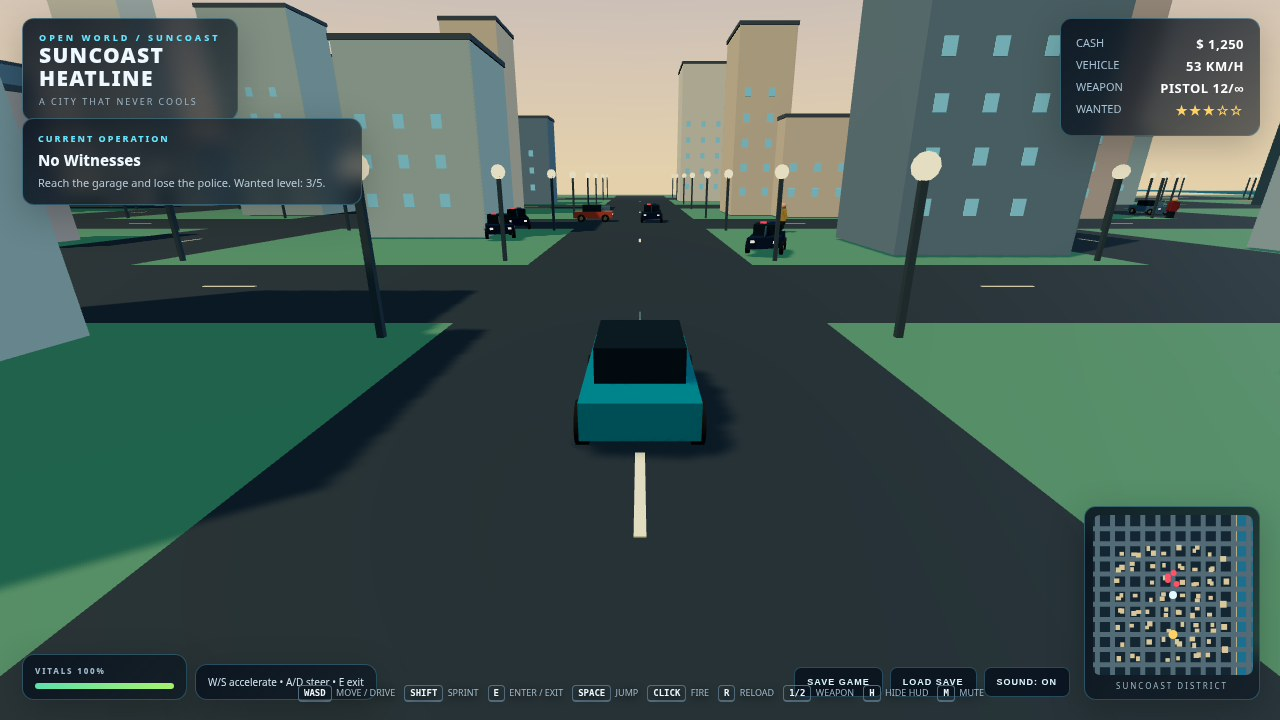
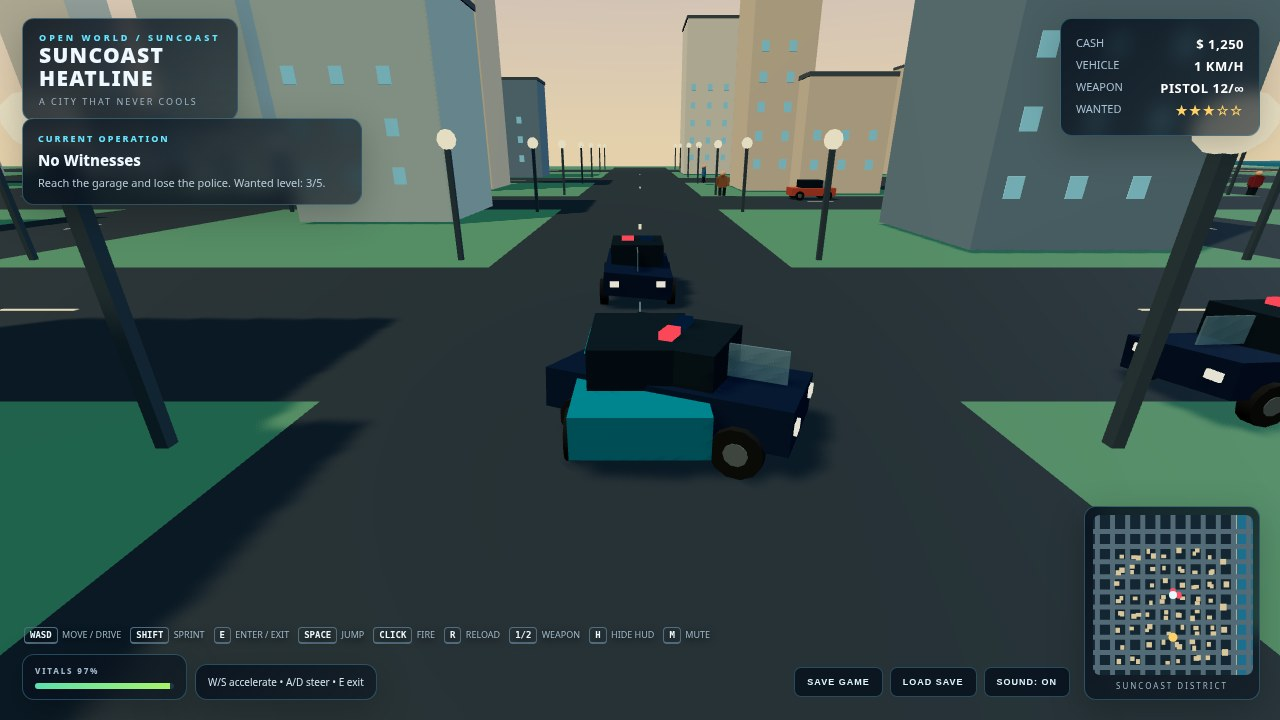
Fix round: QA defects D1-D7 (police unstick + routing, ped spawn/flee, hud=0, HUD layout, shadow map, vendor notices, sun glow, live minimap; re-shot 3-chase.jpg)

diff --git a/game/src/vehicles.js b/game/src/vehicles.js
@@ -162,26 +162,73 @@ export function updateTraffic(traffic, playerCar, dt) {
  * nearest road intersection on the way to the player's last seen position —
  * so a police car routes around blocks on the road grid instead of driving
  * through buildings. Movement itself is also building-clamped with a slide.
+ *
+ * Unstick (D1 fix): a unit that pushes into a building corner can end up
+ * with both move axes blocked, speed damped to ~0 and the same steering
+ * target every frame — a permanent freeze. So each unit tracks its real
+ * displacement: if it barely moves for 0.8 s while the player is far away,
+ * it reverses out of the corner while turning for 1.4 s, then re-engages
+ * with a new heading. The cycle repeats if it wedges again, so a freeze
+ * can no longer be permanent.
  */
 export function updatePolice(police, buildings, actorPos, wanted, dt, onRam) {
   for (const c of police) {
+    const u = c.userData;
     const dx = actorPos.x - c.position.x;
     const dz = actorPos.z - c.position.z;
     const dist = Math.hypot(dx, dz);
+    if (u.stuckTimer === undefined) {
+      u.stuckTimer = 0; u.unstick = 0; u.unstickDir = 1;
+      u.lastPX = c.position.x; u.lastPZ = c.position.z;
+    }
+    const moved = Math.hypot(c.position.x - u.lastPX, c.position.z - u.lastPZ);
+    u.lastPX = c.position.x; u.lastPZ = c.position.z;
+    if (u.unstick > 0) {
+      // Reverse out of the corner while turning, then re-engage.
+      // Margin escape: a unit teleported/staged inside the 1.6 clearance
+      // ring cannot move at all under the normal margin check (every nearby
+      // step still collides), so while unsticking it only has to stay out
+      // of the building core itself (radius 0) — the clearance ring is
+      // free to cross on the way out.
+      u.unstick -= dt;
+      u.speed = -7;
+      c.rotation.y += u.unstickDir * 2.2 * dt;
+      const escapeMargin = collidesBuilding(buildings, c.position.x, c.position.z, 1.6) ? 0 : 1.6;
+      const nx = c.position.x + Math.sin(c.rotation.y) * u.speed * dt;
+      const nz = c.position.z + Math.cos(c.rotation.y) * u.speed * dt;
+      if (!collidesBuilding(buildings, nx, c.position.z, escapeMargin)) c.position.x = nx;
+      if (!collidesBuilding(buildings, c.position.x, nz, escapeMargin)) c.position.z = nz;
+      c.position.x = clamp(c.position.x, -163, 150);
+      c.position.z = clamp(c.position.z, -163, 163);
+      if (u.unstick <= 0) { u.stuckTimer = 0; u.speed = 0; }
+      animateCar(c, dt, u.unstickDir);
+      continue;
+    }
+    if (moved < 0.05 && dist > 8) {
+      u.stuckTimer += dt;
+      if (u.stuckTimer > 0.8) {
+        u.unstick = 1.4;
+        u.unstickDir = (((c.position.x * 7 + c.position.z * 13) % 2) + 2) % 2 < 1 ? 1 : -1;
+      }
+    } else {
+      u.stuckTimer = Math.max(0, u.stuckTimer - dt * 2);
+    }
     let tx = actorPos.x;
     let tz = actorPos.z;
     const seesPlayer = hasLineOfSight(buildings, c.position.x, c.position.z, actorPos.x, actorPos.z);
     if (!seesPlayer) {
       // Route via the road grid: head for the intersection nearest the player
-      // that is also nearest to this car, one leg at a time.
+      // that is also nearest to this car, one leg at a time — axis-aligned,
+      // staying on the road the car is already nearest to first, so the car
+      // never cuts diagonally across a block corner.
       tx = nearestRoadCoord(actorPos.x);
       tz = nearestRoadCoord(actorPos.z);
       const carRoadX = nearestRoadCoord(c.position.x);
       const carRoadZ = nearestRoadCoord(c.position.z);
-      if (Math.abs(tx - carRoadX) > Math.abs(tz - carRoadZ)) {
-        tz = carRoadZ;
+      if (Math.abs(c.position.x - carRoadX) <= Math.abs(c.position.z - carRoadZ)) {
+        tx = carRoadX; // first leg: along the car's vertical road
       } else {
-        tx = carRoadX;
+        tz = carRoadZ; // first leg: along the car's horizontal road
       }
     }
     const tdx = tx - c.position.x;
@@ -193,9 +240,13 @@ export function updatePolice(police, buildings, actorPos, wanted, dt, onRam) {
     const nx = c.position.x + Math.sin(c.rotation.y) * c.userData.speed * dt;
     const nz = c.position.z + Math.cos(c.rotation.y) * c.userData.speed * dt;
     // Building avoidance: slide along the blocked axis, never pass through.
-    if (!collidesBuilding(buildings, nx, c.position.z, 1.6)) c.position.x = nx;
+    // Margin escape (same rule as the unstick branch): a unit already
+    // inside the clearance ring may cross the ring to get out, it just
+    // must not enter the building core itself.
+    const margin = collidesBuilding(buildings, c.position.x, c.position.z, 1.6) ? 0 : 1.6;
+    if (!collidesBuilding(buildings, nx, c.position.z, margin)) c.position.x = nx;
     else c.userData.speed *= 0.6;
-    if (!collidesBuilding(buildings, c.position.x, nz, 1.6)) c.position.z = nz;
+    if (!collidesBuilding(buildings, c.position.x, nz, margin)) c.position.z = nz;
     else c.userData.speed *= 0.6;
     c.position.x = clamp(c.position.x, -163, 150);
     c.position.z = clamp(c.position.z, -163, 163);
@@ -204,15 +255,27 @@ export function updatePolice(police, buildings, actorPos, wanted, dt, onRam) {
   }
 }
 
-/** Spawn one police car at a random bearing, 48 units from the actor. */
-export function spawnPoliceCar(scene, actorPos, rng) {
+/**
+ * Spawn one police car at a random bearing, 48 units from the actor.
+ * The spawn point is validated clear of buildings (margin 2.2, above the
+ * 1.6 collision radius); after 8 blocked tries it falls back to the
+ * nearest road intersection, which is always clear of buildings.
+ */
+export function spawnPoliceCar(scene, actorPos, rng, buildings = null) {
   const c = makeCar(0x172d49, true);
-  const angle = rng() * Math.PI * 2;
-  c.position.set(
-    clamp(actorPos.x + Math.cos(angle) * 48, -150, 150),
-    0,
-    clamp(actorPos.z + Math.sin(angle) * 48, -150, 150),
-  );
+  let x = 0;
+  let z = 0;
+  for (let attempt = 0; attempt < 8; attempt += 1) {
+    const angle = rng() * Math.PI * 2;
+    x = clamp(actorPos.x + Math.cos(angle) * 48, -150, 150);
+    z = clamp(actorPos.z + Math.sin(angle) * 48, -150, 150);
+    if (!buildings || !collidesBuilding(buildings, x, z, 2.2)) break;
+    if (attempt === 7) {
+      x = nearestRoadCoord(x);
+      z = nearestRoadCoord(z);
+    }
+  }
+  c.position.set(x, 0, z);
   c.userData.speed = 0;
   scene.add(c);
   return c;

diff --git a/game/src/characters.js b/game/src/characters.js
@@ -5,7 +5,7 @@
 
 import * as THREE from 'three';
 import { WORLD, mulberry32 } from './config.js';
-import { collidesBuilding } from './world.js';
+import { collidesBuilding, nearestRoadCoord } from './world.js';
 
 function mat(color, roughness = 0.82, metalness = 0) {
   return new THREE.MeshStandardMaterial({ color, roughness, metalness });
@@ -78,19 +78,36 @@ export function spawnPedestrians(scene, buildings, seed = 7) {
   for (let i = 0; i < 14; i += 1) {
     const p = createCharacter(PED_COLOURS[i % PED_COLOURS.length]);
     // Sidewalk position: near a road, offset from its centre line.
-    const roadX = (Math.floor(rng() * 9) - 4) * WORLD.grid;
-    const roadZ = (Math.floor(rng() * 9) - 4) * WORLD.grid;
-    const onVertical = rng() < 0.5;
-    const x = onVertical ? roadX + 8.5 : (rng() * 2 - 1) * 140;
-    const z = onVertical ? (rng() * 2 - 1) * 140 : roadZ + 8.5;
+    // Validated clear of buildings (margin 2.5, well above the 0.6 walk
+    // radius) so no pedestrian spawns wedged against a wall (QA defect D2);
+    // after 10 blocked tries fall back to the nearest road intersection,
+    // which is always clear of buildings.
+    let x = 0;
+    let z = 0;
+    let onVertical = true;
+    for (let attempt = 0; attempt < 10; attempt += 1) {
+      const roadX = (Math.floor(rng() * 9) - 4) * WORLD.grid;
+      const roadZ = (Math.floor(rng() * 9) - 4) * WORLD.grid;
+      onVertical = rng() < 0.5;
+      x = onVertical ? roadX + 8.5 : (rng() * 2 - 1) * 140;
+      z = onVertical ? (rng() * 2 - 1) * 140 : roadZ + 8.5;
+      if (!collidesBuilding(buildings, x, z, 2.5)) break;
+      if (attempt === 9) {
+        x = nearestRoadCoord(x);
+        z = nearestRoadCoord(z);
+      }
+    }
     p.position.set(x, 0, z);
     p.userData.isPed = true;
     p.userData.speed = 1.2 + rng() * 0.9;
     p.userData.axis = onVertical ? 'z' : 'x';
     p.userData.dir = rng() < 0.5 ? 1 : -1;
     p.userData.flee = 0; // seconds of fleeing left
-    p.userData.fleeX = 0;
-    p.userData.fleeZ = 0;
+    p.userData.fleeDX = 0; // fixed flee direction (set at gunfire time)
+    p.userData.fleeDZ = 0;
+    p.userData.pedStuck = 0; // seconds barely moving while fleeing
+    p.userData.lastPX = x;
+    p.userData.lastPZ = z;
     scene.add(p);
     peds.push(p);
   }
@@ -106,17 +123,37 @@ export function updatePedestrians(peds, buildings, dt, gunfire) {
     const u = p.userData;
     if (gunfire) {
       u.flee = 3;
-      u.fleeX = gunfire.x; u.fleeZ = gunfire.z;
+      // Fix the flee direction at gunfire time: recomputing it every frame
+      // from the current position makes a pedestrian sliding along a wall
+      // oscillate in place instead of running clear.
+      const dx = p.position.x - gunfire.x;
+      const dz = p.position.z - gunfire.z;
+      const len = Math.hypot(dx, dz) || 1;
+      u.fleeDX = dx / len;
+      u.fleeDZ = dz / len;
     }
     let mx = 0;
     let mz = 0;
     let speed = u.speed;
     if (u.flee > 0) {
       u.flee -= dt;
-      const dx = p.position.x - u.fleeX;
-      const dz = p.position.z - u.fleeZ;
-      const len = Math.hypot(dx, dz) || 1;
-      mx = dx / len; mz = dz / len;
+      // Wedged while fleeing (D2 fix): if the pedestrian barely moves,
+      // turn the flee direction 90 degrees so it runs along the wall
+      // instead of pushing into it forever.
+      const moved = Math.hypot(p.position.x - u.lastPX, p.position.z - u.lastPZ);
+      if (moved < 0.02) {
+        u.pedStuck += dt;
+        if (u.pedStuck > 0.5) {
+          const ndx = -u.fleeDZ;
+          const ndz = u.fleeDX;
+          u.fleeDX = ndx;
+          u.fleeDZ = ndz;
+          u.pedStuck = 0;
+        }
+      } else {
+        u.pedStuck = 0;
+      }
+      mx = u.fleeDX; mz = u.fleeDZ;
       speed = 5.2;
     } else if (u.axis === 'z') {
       mz = u.dir;
@@ -125,8 +162,13 @@ export function updatePedestrians(peds, buildings, dt, gunfire) {
     }
     const nx = THREE.MathUtils.clamp(p.position.x + mx * speed * dt, -WORLD.half, WORLD.half);
     const nz = THREE.MathUtils.clamp(p.position.z + mz * speed * dt, -WORLD.half, WORLD.half);
-    if (!collidesBuilding(buildings, nx, p.position.z, 0.6)) p.position.x = nx;
-    if (!collidesBuilding(buildings, p.position.x, nz, 0.6)) p.position.z = nz;
+    // Margin escape (same rule as police): a pedestrian already inside the
+    // clearance ring may cross the ring to get out, just not into the core.
+    const pedMargin = collidesBuilding(buildings, p.position.x, p.position.z, 0.6) ? 0 : 0.6;
+    if (!collidesBuilding(buildings, nx, p.position.z, pedMargin)) p.position.x = nx;
+    if (!collidesBuilding(buildings, p.position.x, nz, pedMargin)) p.position.z = nz;
+    u.lastPX = p.position.x;
+    u.lastPZ = p.position.z;
     // Turn around at the map edge or when blocked.
     if ((u.axis === 'z' && Math.abs(p.position.z) > 158) || (u.axis === 'x' && Math.abs(p.position.x) > 158)) {
       u.dir *= -1;

diff --git a/game/index.html b/game/index.html
@@ -38,7 +38,7 @@
 #actions{position:absolute;right:210px;bottom:23px;display:flex;gap:7px;pointer-events:auto}
 .uiBtn{border:1px solid var(--line);background:rgba(8,18,30,.86);color:#dff7ff;border-radius:7px;padding:9px 12px;font-size:9px;font-weight:850;letter-spacing:1px;cursor:pointer}
 .uiBtn:hover{border-color:var(--cyan);color:var(--cyan)}
-#controls{position:absolute;left:50%;bottom:18px;transform:translateX(-50%);font-size:9px;color:#9fb7c7;text-align:center;white-space:nowrap;text-shadow:0 2px 8px #000}
+#controls{position:absolute;left:22px;bottom:76px;font-size:9px;color:#9fb7c7;text-align:left;white-space:nowrap;text-shadow:0 2px 8px #000}
 kbd{display:inline-block;border:1px solid #557082;border-bottom-width:2px;border-radius:4px;padding:2px 5px;color:#eaf8ff;font:800 9px ui-monospace,monospace;margin:0 2px}
 #crosshair{position:absolute;left:50%;top:50%;width:16px;height:16px;transform:translate(-50%,-50%);opacity:.75}
 #crosshair:before,#crosshair:after{content:"";position:absolute;background:#d9f8ff;box-shadow:0 0 5px #4ddcff}
@@ -51,7 +51,7 @@ kbd{display:inline-block;border:1px solid #557082;border-bottom-width:2px;border
 #startPanel p{font-size:12px;line-height:1.6;color:#a9c1d0;max-width:440px}
 #startPanel .disclaimer{font-size:9px;color:#7893a4;margin-top:15px}
 #startBtn{margin-top:17px;padding:13px 19px;background:var(--cyan);color:#06111a;border:0;border-radius:7px;font-weight:950;letter-spacing:1.5px;cursor:pointer}
-@media(max-width:650px){#brand{left:10px;top:10px;min-width:0;padding:9px 11px}#brand .name{font-size:16px}#stats{right:10px;top:10px;min-width:145px;padding:9px 10px}#mission{left:10px;top:92px;padding:10px;width:220px}#minimapWrap{right:10px;bottom:10px;width:132px;padding:6px}#minimap{width:118px;height:118px}#actions{right:10px;bottom:145px;flex-direction:column}#bottom{left:10px;bottom:10px}#healthBox{width:125px}#vehicleHint{display:none}#controls{bottom:12px;font-size:8px;max-width:58vw;white-space:normal}}
+@media(max-width:650px){#brand{left:10px;top:10px;min-width:0;padding:9px 11px}#brand .name{font-size:16px}#stats{right:10px;top:10px;min-width:145px;padding:9px 10px}#mission{left:10px;top:100px;padding:10px;width:220px}#minimapWrap{right:10px;bottom:10px;width:102px;padding:6px}#minimap{width:88px;height:88px}#actions{right:10px;bottom:142px;flex-direction:column}.uiBtn{padding:7px 10px;font-size:8px}#bottom{left:10px;bottom:10px}#healthBox{width:125px}#vehicleHint{display:none}#controls{left:10px;bottom:56px;font-size:8px;max-width:60vw;white-space:normal}}
 </style>
 </head>
 <body>

diff --git a/game/src/world.js b/game/src/world.js
@@ -48,10 +48,24 @@ function makeSky(scene) {
     vertexColors: true, side: THREE.BackSide, fog: false,
   }));
   scene.add(sky);
-  // Low sun disc with a soft glow sprite (canvas-generated, data-free: plain mesh).
+  // Low sun disc with a soft radial glow (canvas-generated, data-free),
+  // so the edge fades out instead of cutting a hard white disc against
+  // the waterfront towers (QA defect D7).
+  const glowCanvas = document.createElement('canvas');
+  glowCanvas.width = 256;
+  glowCanvas.height = 256;
+  const gctx = glowCanvas.getContext('2d');
+  const grad = gctx.createRadialGradient(128, 128, 0, 128, 128, 128);
+  grad.addColorStop(0, 'rgba(255,242,200,1)');
+  grad.addColorStop(0.45, 'rgba(255,236,180,0.85)');
+  grad.addColorStop(1, 'rgba(255,236,180,0)');
+  gctx.fillStyle = grad;
+  gctx.fillRect(0, 0, 256, 256);
   const sunDisc = new THREE.Mesh(
-    new THREE.CircleGeometry(14, 32),
-    new THREE.MeshBasicMaterial({ color: 0xfff2c8, fog: false }),
+    new THREE.CircleGeometry(16, 32),
+    new THREE.MeshBasicMaterial({
+      map: new THREE.CanvasTexture(glowCanvas), transparent: true, fog: false, depthWrite: false,
+    }),
   );
   sunDisc.position.set(-260, 150, -180);
   sunDisc.lookAt(0, 40, 0);

diff --git a/game/src/main.js b/game/src/main.js
@@ -39,7 +39,7 @@ const renderer = new THREE.WebGLRenderer({ antialias: true, powerPreference: 'hi
 renderer.setPixelRatio(Math.min(devicePixelRatio, 1.7));
 renderer.setSize(innerWidth, innerHeight);
 renderer.shadowMap.enabled = true;
-renderer.shadowMap.type = THREE.PCFSoftShadowMap;
+renderer.shadowMap.type = THREE.PCFShadowMap;
 renderer.outputColorSpace = THREE.SRGBColorSpace;
 renderer.toneMapping = THREE.ACESFilmicToneMapping;
 renderer.toneMappingExposure = 1.08;
@@ -374,7 +374,7 @@ function updatePoliceSpawns(dt) {
   if (G.wanted > 0) {
     G.policeSpawn -= dt;
     if (G.police.length < Math.min(1 + G.wanted, 4) && G.policeSpawn <= 0) {
-      G.police.push(spawnPoliceCar(scene, p, Math.random));
+      G.police.push(spawnPoliceCar(scene, p, Math.random, buildings));
       G.policeSpawn = 4.5;
     }
   } else {
@@ -488,6 +488,9 @@ function animate(now) {
     updateHud(G);
     drawMinimap(G);
   } else if (!G.gameStarted) {
+    // Start screen: keep the minimap live behind the card instead of a
+    // blank dark canvas.
+    drawMinimap(G);
     camera.position.set(0, 13, 23);
     camera.lookAt(0, 0, 0);
   }

diff --git a/game/src/shots.js b/game/src/shots.js
@@ -68,11 +68,13 @@ export function stageShot(name, G) {
     G.wanted = 3;
     G.heat = 60;
     while (G.police.length < 3) {
-      G.police.push(spawnPoliceCar(G.scene, G.actorPosition(), rng));
+      G.police.push(spawnPoliceCar(G.scene, G.actorPosition(), rng, G.buildings));
     }
-    G.police[0].position.set(10, 0, -52);
-    G.police[1].position.set(-12, 0, -58);
-    G.police[2].position.set(2, 0, -78);
+    // All three staged on open road, clear of buildings: unit 2 used to sit
+    // at (-12,-58), wedged against a building corner (QA defect D1).
+    G.police[0].position.set(0, 0, -54);
+    G.police[1].position.set(-36, 0, -54);
+    G.police[2].position.set(0, 0, -84);
     for (const c of G.police) c.userData.speed = 10 + rng() * 3;
     G.missionIndex = 4;
     placeMarker(G.marker, G.missionIndex);

diff --git a/game/src/config.js b/game/src/config.js
@@ -54,5 +54,5 @@ export function parseQuery() {
   const shot = (q.get('shot') || '').toLowerCase();
   const seed = Number.parseInt(q.get('seed') || '1', 10) || 1;
   const hud = q.get('hud');
-  return { shot, seed, hideHud: hud === '0' || shot !== '' };
+  return { shot, seed, hud, hideHud: hud === '0' || shot !== '' };
 }

diff --git a/game/THIRD-PARTY-NOTICES.md b/game/THIRD-PARTY-NOTICES.md
@@ -5,8 +5,11 @@ art, audio, names, story — is original work by the entry's author.
 
 ## Three.js 0.187.0
 
-- What: the 3D engine, vendored as `game/vendor/three.module.min.js`
-  (the official minified build of `three@0.187.0`).
+- What: the 3D engine, vendored as two files from the official
+  `three@0.187.0` release: `game/vendor/three.module.min.js` (the entry
+  point, which re-exports the whole API) and `game/vendor/three.core.js`
+  (the implementation it imports with `./three.core.js`). Both files are
+  required; deleting either one breaks the game.
 - License: MIT License. Full text in `game/vendor/LICENSE-threejs.txt`.
 - Copyright: (c) 2010-2025 three.js authors.
 - Source: https://github.com/mrdoob/three.js (release 0.187.0).

diff --git a/game/README.md b/game/README.md
@@ -111,8 +111,9 @@ system owns one file and one job.
   mission — traffic, police and pedestrian positions are re-seeded, not saved.
 - Pedestrians walk fixed sidewalk loops; they react to gunfire but have no
   full pathfinding.
-- Police route around blocks via the road grid; in rare corner cases a unit
-  can hesitate at a building corner before finding the road again.
+- Police route around blocks via the road grid; a unit that gets wedged in
+  a building corner reverses out and re-routes (unstick), and police and
+  pedestrian spawn points are validated clear of buildings.
 - No day/night cycle or weather; the game is set at golden hour.
 - The ocean is a vertex-animated plane, not a shader water simulation.
 
